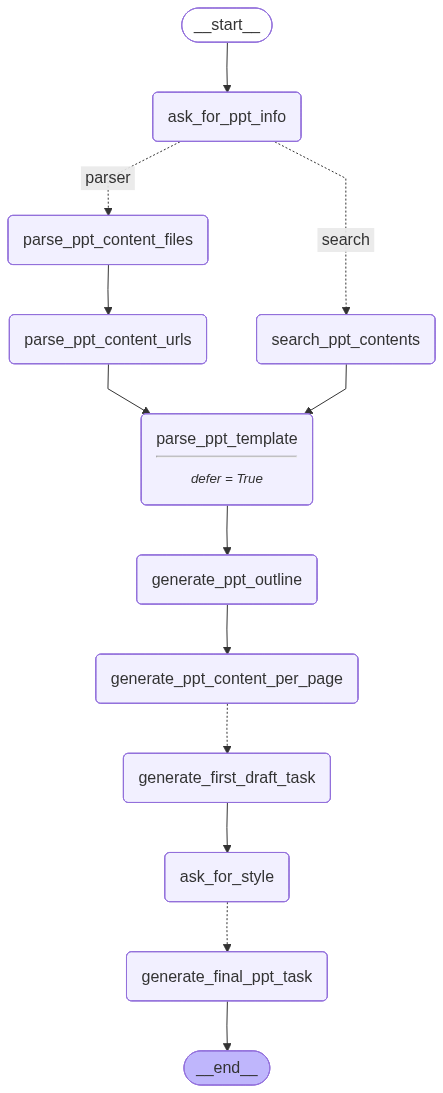
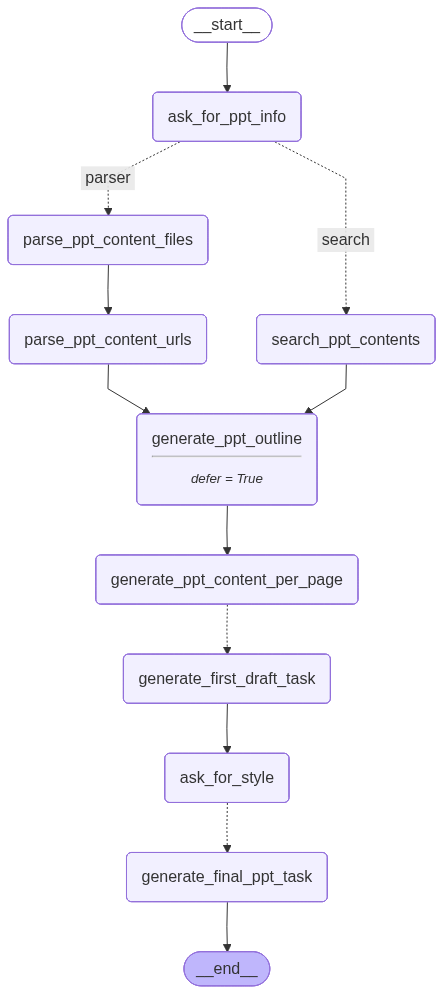
暂时去掉上传ppt模板的功能

diff --git a/src/ppt_agent/node.py b/src/ppt_agent/node.py
@@ -88,24 +88,24 @@ def ask_for_ppt_info(
         ppt_content_source_from_user["have_ppt_content_files"],
         ppt_content_source_from_user.get("ppt_content_source_urls", None),
     )
-
-    ppt_template_info = interrupt(
-        UploadPPTTemplateInterruptValues(
-            title="你可以上传一个PPT模板文件，如果没有可以直接跳过",
-        )
-    )
+    # TODO: 实现ppt模板的功能
+    # ppt_template_info = interrupt(
+    #     UploadPPTTemplateInterruptValues(
+    #         title="你可以上传一个PPT模板文件，如果没有可以直接跳过",
+    #     )
+    # )
     # 如果 have_ppt_template=False, ppt_template_path则为None
-    have_ppt_template, ppt_template_path = (
-        ppt_template_info["have_ppt_template"],
-        ppt_template_info["ppt_template_path"],
-    )
+    # have_ppt_template, ppt_template_path = (
+    #     ppt_template_info["have_ppt_template"],
+    #     ppt_template_info["ppt_template_path"],
+    # )
 
     return {
         "ppt_info": ppt_info,
         "have_ppt_content_files": have_ppt_content_files,
-        "have_ppt_template": have_ppt_template,
+        # "have_ppt_template": have_ppt_template,
         "ppt_content_source_urls": ppt_content_source_urls,
-        "ppt_template_path": ppt_template_path if have_ppt_template else None,
+        # "ppt_template_path": ppt_template_path if have_ppt_template else None,
     }
 
 
@@ -254,7 +254,7 @@ def parse_ppt_template(
     将用户上传的ppt、pptx模板转为svg的格式，用来后面LLM根据这个模板的svg来生成对应的ppt
     """
     writer = get_stream_writer()
-    writer({"current_stage": "正在解析用户上传的PPT模板"})
+    # writer({"current_stage": "正在解析用户上传的PPT模板"})
     # TODO: 可能得加一些pptx的页数的限制，页数太多会导致上下文太长
     thread_id = config["configurable"].get("thread_id")
     if not state.have_ppt_template:

diff --git a/src/ppt_agent/ppt_agent.py b/src/ppt_agent/ppt_agent.py
@@ -44,8 +44,8 @@ class PPTAgent:
         graph.add_node("parse_ppt_content_files", parse_ppt_content_files)
         graph.add_node("parse_ppt_content_urls", parse_ppt_content_urls)
         # 该节点延迟执行
-        graph.add_node("parse_ppt_template", parse_ppt_template, defer=True)
-        graph.add_node("generate_ppt_outline", generate_ppt_outline)
+        # graph.add_node("parse_ppt_template", parse_ppt_template, defer=True)
+        graph.add_node("generate_ppt_outline", generate_ppt_outline, defer=True)
         graph.add_node(
             "generate_ppt_content_per_page",
             generate_ppt_content_per_page,
@@ -84,9 +84,11 @@ class PPTAgent:
         )
         graph.add_edge("parse_ppt_content_files", "parse_ppt_content_urls")
 
-        graph.add_edge("search_ppt_contents", "parse_ppt_template")
-        graph.add_edge("parse_ppt_content_urls", "parse_ppt_template")
-        graph.add_edge("parse_ppt_template", "generate_ppt_outline")
+        # graph.add_edge("search_ppt_contents", "parse_ppt_template")
+        # graph.add_edge("parse_ppt_content_urls", "parse_ppt_template")
+        # graph.add_edge("parse_ppt_template", "generate_ppt_outline")
+        graph.add_edge("search_ppt_contents", "generate_ppt_outline")
+        graph.add_edge("parse_ppt_content_urls", "generate_ppt_outline")
         graph.add_edge("generate_ppt_outline", "generate_ppt_content_per_page")
         graph.add_conditional_edges(
             "generate_ppt_content_per_page",